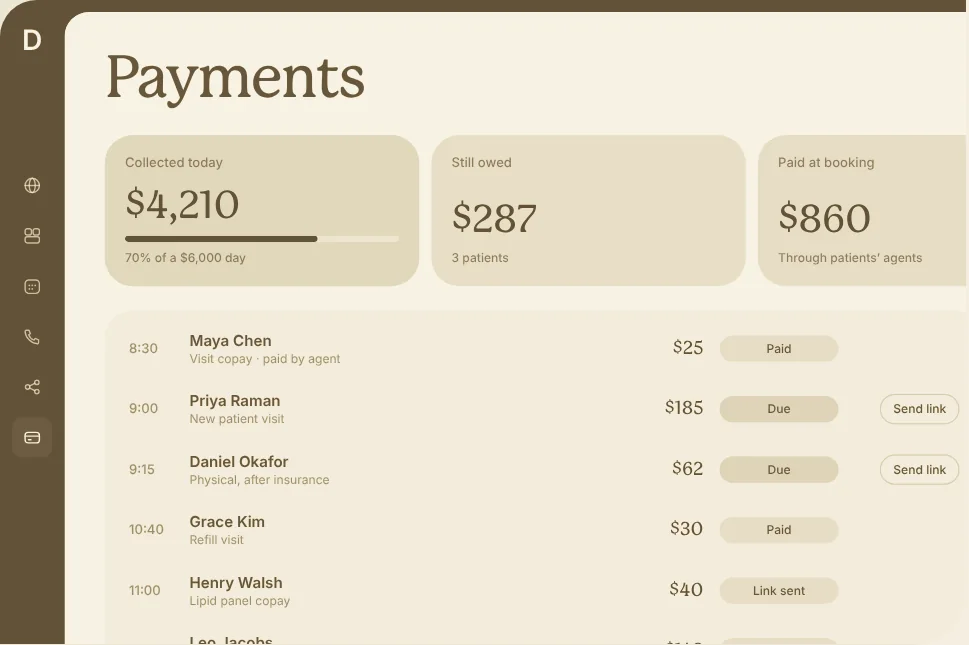
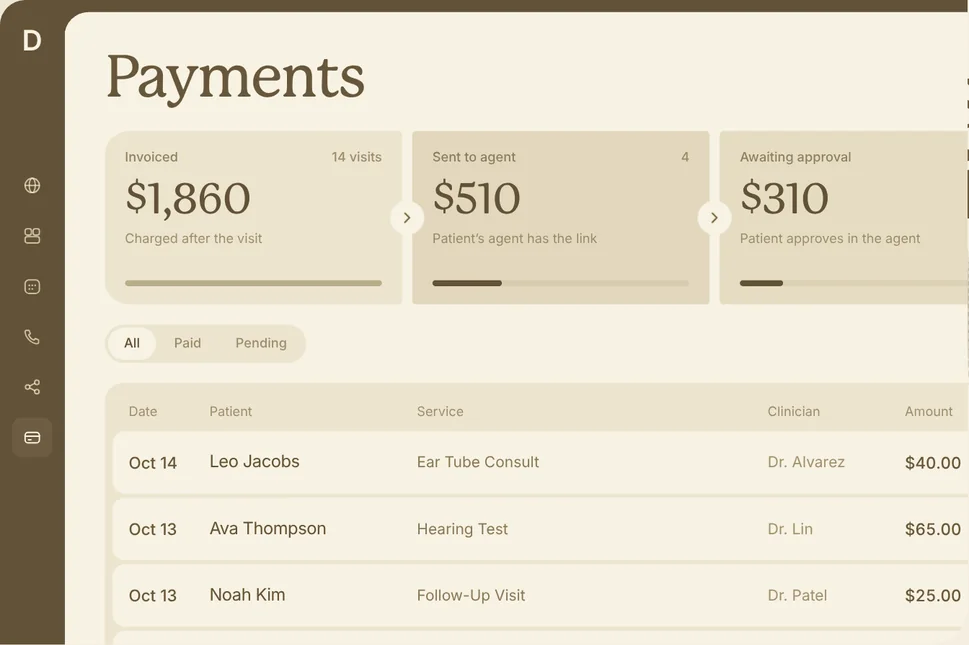
product: Payments tab with a four-stage row over the payments table
Invoiced, sent to agent, awaiting approval and collected as one connected
row, then the payments table with paid-with and status pills; the filter
and clinician selector work. iPhone still re-captured.

Claude-Session: https://claude.ai/code/session_01EmNa9sU45d49GNut3o7Pn7

diff --git a/components/doehealth-product/DoeHealthProductPayments.tsx b/components/doehealth-product/DoeHealthProductPayments.tsx
@@ -1,156 +1,169 @@
 "use client";
 
 /**
- * Payments tab — today's money at a glance: four soft stat cards, the day's payments with one action
- * each, and the week's collections as rounded bars.
+ * Payments tab — a charge's path in one row (invoiced, sent to the patient's agent, awaiting approval, collected),
+ * then every payment in a table with who paid, with what, and where it stands.
  */
-import { type ReactNode, useState } from "react";
+import { useState } from "react";
 
 const DISPLAY = "font-['P22MackinacPro-Medium','P22_Mackinac_Pro',system-ui,sans-serif] font-[500]";
 const SANS = "font-['DM_Sans',system-ui,sans-serif]";
-const EASE = "cubic-bezier(0.32, 0.72, 0, 1)";
 
-type Status = "paid" | "due" | "sent" | "claim" | "denied";
+type PayStatus = "paid" | "sent" | "waiting";
 
-const STATUS: Record<Status, { label: string; tone: string }> = {
-  paid: { label: "Paid", tone: "#E3E9D9" },
-  due: { label: "Due", tone: "#FCCFB8" },
-  sent: { label: "Link sent", tone: "#EEE6D6" },
-  claim: { label: "Claim pending", tone: "#F3E7C9" },
-  denied: { label: "Claim denied", tone: "#F6D2C4" },
+const ROWS: { date: string; name: string; service: string; clinician: string; amount: string; method: string; status: PayStatus }[] = [
+  { date: "Oct 14", name: "Leo Jacobs", service: "Ear Tube Consult", clinician: "Dr. Alvarez", amount: "$40.00", method: "HSA •••• 4417", status: "sent" },
+  { date: "Oct 13", name: "Ava Thompson", service: "Hearing Test", clinician: "Dr. Lin", amount: "$65.00", method: "Visa •••• 2290", status: "paid" },
+  { date: "Oct 13", name: "Noah Kim", service: "Follow-Up Visit", clinician: "Dr. Patel", amount: "$25.00", method: "HSA •••• 0912", status: "paid" },
+  { date: "Oct 12", name: "Grace Patel", service: "Allergy Panel", clinician: "Dr. Alvarez", amount: "$120.00", method: "Amex •••• 3005", status: "paid" },
+  { date: "Oct 12", name: "Henry Walsh", service: "Sinus CT", clinician: "Dr. Lin", amount: "$310.00", method: "—", status: "waiting" },
+  { date: "Oct 11", name: "Maya Chen", service: "Hearing Aid Fitting", clinician: "Dr. Patel", amount: "$85.00", method: "—", status: "sent" },
+  { date: "Oct 11", name: "Daniel Okafor", service: "Ear Cleaning", clinician: "Dr. Alvarez", amount: "$30.00", method: "Visa •••• 7731", status: "paid" },
+  { date: "Oct 10", name: "Priya Raman", service: "Tympanometry", clinician: "Dr. Lin", amount: "$45.00", method: "HSA •••• 5520", status: "paid" },
+  { date: "Oct 10", name: "Tom Halvorsen", service: "Follow-Up Visit", clinician: "Dr. Patel", amount: "$25.00", method: "Visa •••• 1184", status: "paid" },
+];
+
+const PILL: Record<PayStatus, { label: string; background: string; color: string }> = {
+  paid: { label: "Paid by Agent", background: "#D6DEC6", color: "#2F3B2A" },
+  sent: { label: "Sent to Agent", background: "#FCCFB8", color: "#140C04" },
+  waiting: { label: "Awaiting Approval", background: "#28191014", color: "#281910" },
 };
 
-const PAYMENTS: { id: string; who: string; what: string; time: string; amount: number; status: Status; agent?: boolean }[] = [
-  { id: "maya", who: "Maya Chen", what: "Visit copay", time: "8:30", amount: 25, status: "paid", agent: true },
-  { id: "priya", who: "Priya Raman", what: "New patient visit", time: "9:00", amount: 185, status: "due" },
-  { id: "daniel", who: "Daniel Okafor", what: "Physical, after insurance", time: "9:15", amount: 62, status: "due" },
-  { id: "grace", who: "Grace Kim", what: "Refill visit", time: "10:40", amount: 30, status: "paid" },
-  { id: "henry", who: "Henry Walsh", what: "Lipid panel copay", time: "11:00", amount: 40, status: "sent" },
-  { id: "leo", who: "Leo Jacobs", what: "Ear check · Harbor Mutual", time: "11:30", amount: 142, status: "claim" },
-  { id: "hannah", who: "Hannah Lee", what: "Follow-up", time: "1:15", amount: 25, status: "paid" },
-  { id: "marcus", who: "Marcus Webb", what: "A1C panel · Blue Cross", time: "2:00", amount: 96, status: "denied" },
-  { id: "omar", who: "Omar Haddad", what: "Ear check", time: "4:15", amount: 25, status: "paid", agent: true },
-];
+const COLS = { date: 64, name: 190, clinician: 120, amount: 96, method: 170, status: 168 };
 
-const WEEK = [
-  { day: "Mon", value: 4210, today: true },
-  { day: "Tue", value: 0 },
-  { day: "Wed", value: 0 },
-  { day: "Thu", value: 0 },
-  { day: "Fri", value: 0 },
-];
-const LAST_WEEK = [5120, 4380, 6010, 3890, 5460];
-const GOAL = 6000;
+const FILTERS = ["All", "Paid", "Pending"] as const;
+const CLINICIANS = ["All Clinicians", "Dr. Alvarez", "Dr. Lin", "Dr. Patel"];
 
-const money = (n: number) => `$${n.toLocaleString("en-US")}`;
+/** The four stages a charge passes through, left to right. */
+const STAGES = [
+  { id: "invoiced", label: "Invoiced", count: "14 visits", value: "$1,860", note: "Charged after the visit", tone: "#F4EEDF", fill: 1, bar: "#28191055" },
+  { id: "sent", label: "Sent to agent", count: "4", value: "$510", note: "Patient’s agent has the link", tone: "#F8D9C6", fill: 0.27, bar: "#140C04" },
+  { id: "waiting", label: "Awaiting approval", count: "1", value: "$310", note: "Patient approves in the agent", tone: "#ECE6DA", fill: 0.17, bar: "#140C04" },
+] as const;
 
-function Stat({ label, value, note, tone, children }: { label: string; value: string; note: string; tone: string; children?: ReactNode }) {
+function Chevron() {
   return (
-    <div className="flex flex-col justify-between h-[150px] p-[20px] rounded-[28px]" style={{ backgroundColor: tone }}>
-      <span className={`text-[13px] leading-[16px] ${SANS} font-[500] text-walnut opacity-70`}>{label}</span>
-      <span className="flex flex-col gap-[8px]">
-        <span className={`text-[38px] leading-[42px] tracking-[-0.02em] ${DISPLAY} text-ink`}>{value}</span>
-        {children}
-        <span className={`text-[12px] leading-[16px] ${SANS} font-[500] text-walnut opacity-70`}>{note}</span>
-      </span>
-    </div>
+    <span className="absolute z-[2] top-1/2 -right-[22px] -mt-[17px] w-[34px] h-[34px] flex items-center justify-center rounded-[999px] bg-paper" aria-hidden="true">
+      <svg width="18" height="18" viewBox="0 0 24 24" style={{ display: "block" }}>
+        <path d="M9 6l6 6-6 6" fill="none" stroke="#281910" strokeWidth="1.8" strokeLinecap="round" strokeLinejoin="round" />
+      </svg>
+    </span>
   );
 }
 
 export function DoeHealthProductPaymentsPage() {
-  const [statuses, setStatuses] = useState<Record<string, Status>>(() => Object.fromEntries(PAYMENTS.map((p) => [p.id, p.status])));
-  const set = (id: string, status: Status) => setStatuses((prev) => ({ ...prev, [id]: status }));
+  const [filter, setFilter] = useState<(typeof FILTERS)[number]>("All");
+  const [clinician, setClinician] = useState(0);
 
-  const owed = PAYMENTS.filter((p) => statuses[p.id] === "due" || statuses[p.id] === "sent");
-  const dueCount = PAYMENTS.filter((p) => statuses[p.id] === "due").length;
-  const collected = 4210;
-  const max = Math.max(GOAL, ...LAST_WEEK);
+  const rows = ROWS.filter((r) => {
+    if (filter === "Paid" && r.status !== "paid") return false;
+    if (filter === "Pending" && r.status === "paid") return false;
+    return clinician === 0 || r.clinician === CLINICIANS[clinician];
+  });
 
   return (
-    <div className="relative [font-synthesis:none] h-full w-full flex flex-col gap-[24px] pt-[36px] px-[40px] pb-[28px] rounded-[24px] overflow-clip bg-paper antialiased">
-
+    <div className="relative [font-synthesis:none] h-full w-full flex flex-col gap-[20px] pt-[36px] px-[40px] pb-[28px] rounded-[24px] overflow-clip bg-paper antialiased">
       <div className="relative flex items-end justify-between">
         <span className={`text-[58px] leading-[62px] tracking-[-0.03em] ${DISPLAY} text-walnut`}>Payments</span>
+        <span className="flex gap-[10px]">
+          <span className={`flex items-center h-[40px] px-[18px] rounded-[999px] bg-[#28191014] text-[14px] leading-[18px] ${SANS} font-[500] text-walnut`}>Export</span>
+          <span className={`flex items-center h-[40px] px-[18px] rounded-[999px] bg-ink text-[14px] leading-[18px] ${SANS} font-[500] [color:#FFFCF1]`}>New charge</span>
+        </span>
+      </div>
+
+      <div className="relative grid grid-cols-[1fr_1fr_1fr_1.25fr] gap-[10px] h-[172px] shrink-0">
+        {STAGES.map((s, i) => (
+          <div key={s.id} className={`relative flex flex-col p-[18px_20px] ${i === 0 ? "rounded-l-[24px] rounded-r-[4px]" : "rounded-[4px]"}`} style={{ backgroundColor: s.tone }}>
+            <span className={`flex items-center justify-between text-[13px] leading-[16px] ${SANS} font-[500] text-[rgba(40,25,16,0.7)]`}>
+              {s.label}
+              <span className="text-sub">{s.count}</span>
+            </span>
+            <span className={`mt-[14px] text-[42px] leading-[44px] tracking-[-0.03em] ${DISPLAY} text-ink`}>{s.value}</span>
+            <span className={`mt-[6px] text-[13px] leading-[18px] ${SANS} text-sub`}>{s.note}</span>
+            <span className="mt-auto h-[6px] rounded-[99px] bg-[#2819101A] overflow-hidden">
+              <span className="block h-full rounded-[99px]" style={{ width: `${s.fill * 100}%`, backgroundColor: s.bar }} />
+            </span>
+            <Chevron />
+          </div>
+        ))}
+        <div className="relative flex flex-col p-[18px_20px] rounded-l-[4px] rounded-r-[24px] bg-[#D6DEC6]">
+          <span className={`flex items-center justify-between text-[13px] leading-[16px] ${SANS} font-[500] text-[#2F3B2A]`}>
+            Collected
+            <span className="flex items-center h-[24px] px-[10px] rounded-[999px] bg-[#FFFCF1A6] text-[12px]">+18% this week</span>
+          </span>
+          <span className={`mt-[8px] text-[56px] leading-[58px] tracking-[-0.03em] ${DISPLAY} text-ink`}>$1,240</span>
+          <span className={`mt-[8px] flex gap-[14px] text-[12.5px] leading-[16px] ${SANS} text-[#2F3B2A]`}>
+            <span><b className="font-[600]">72%</b> paid by agent</span>
+            <span><b className="font-[600]">18%</b> card on file</span>
+            <span><b className="font-[600]">10%</b> front desk</span>
+          </span>
+          <span className="mt-auto flex gap-[3px] h-[6px] rounded-[99px] overflow-hidden bg-[#FFFCF18C]">
+            <span className="h-full bg-[#2F3B2A]" style={{ width: "72%" }} />
+            <span className="h-full bg-[#6E9A5B]" style={{ width: "18%" }} />
+            <span className="h-full bg-[#9DB387]" style={{ width: "10%" }} />
+          </span>
+        </div>
+      </div>
+
+      <div className="relative flex items-center gap-[10px] h-[38px] shrink-0">
+        <span className="flex p-[3px] gap-[2px] rounded-[999px] bg-[#F4EEDF]">
+          {FILTERS.map((f) => (
+            <button
+              key={f}
+              type="button"
+              onClick={() => setFilter(f)}
+              className={`h-[32px] px-[16px] rounded-[999px] text-[13px] leading-[16px] ${SANS} font-[500] transition-colors duration-150 ${filter === f ? "bg-paper text-ink" : "text-sub hover:text-walnut"}`}
+            >
+              {f}
+            </button>
+          ))}
+        </span>
+        <span className="grow" />
         <button
           type="button"
-          disabled={dueCount === 0}
-          onClick={() => PAYMENTS.forEach((p) => statuses[p.id] === "due" && set(p.id, "sent"))}
-          className={`h-[40px] px-[18px] rounded-[999px] text-[14px] leading-[18px] ${SANS} font-[500] transition-colors duration-150 ${dueCount ? "bg-ink [color:#FFFCF1] hover:bg-[#2B1D12]" : "bg-[#EEEADF] text-sub"}`}
+          onClick={() => setClinician((c) => (c + 1) % CLINICIANS.length)}
+          className={`flex items-center gap-[8px] h-[38px] px-[16px] rounded-[999px] bg-[#28191014] hover:bg-[#2819101F] transition-colors duration-150 text-[14px] leading-[18px] ${SANS} font-[500] text-walnut`}
         >
-          {dueCount ? `Send ${dueCount} payment links` : "All links sent"}
+          {CLINICIANS[clinician]}
+          <svg width="14" height="14" viewBox="0 0 24 24" aria-hidden="true" style={{ display: "block" }}>
+            <path d="M6 9l6 6 6-6" fill="none" stroke="currentColor" strokeWidth="2" strokeLinecap="round" strokeLinejoin="round" />
+          </svg>
         </button>
       </div>
 
-      <div className="relative grid grid-cols-4 gap-[12px]">
-        <Stat label="Collected today" value={money(collected)} note={`${Math.round((collected / GOAL) * 100)}% of a ${money(GOAL)} day`} tone="#E9DCC7">
-          <span className="h-[6px] rounded-[99px] bg-[#FFFCF199] overflow-hidden">
-            <span className="block h-full rounded-[99px] bg-ink" style={{ width: `${(collected / GOAL) * 100}%` }} />
-          </span>
-        </Stat>
-        <Stat label="Still owed" value={money(owed.reduce((s, p) => s + p.amount, 0))} note={`${owed.length} patients`} tone="#FBE4D8" />
-        <Stat label="Paid at booking" value="$860" note="Through patients’ agents" tone="#E3E9D9" />
-        <Stat label="Claims in flight" value="23" note="Waystar offline since 9:12" tone="#F3EEE2" />
-      </div>
-
-      <div className="relative flex grow min-h-[0px] gap-[12px]">
-        <div className="grow min-w-[0px] flex flex-col p-[8px] rounded-[28px] bg-[#FAF6EC] overflow-y-auto overscroll-y-none [scrollbar-width:none] [&::-webkit-scrollbar]:hidden">
-          {PAYMENTS.map((p) => {
-            const status = statuses[p.id]!;
-            const s = STATUS[status];
+      <div className="relative flex flex-col grow min-h-[0px] pt-[8px] px-[8px] rounded-[18px] bg-[#F4EEDF] overflow-y-auto overscroll-y-none [scrollbar-width:none] [&::-webkit-scrollbar]:hidden">
+        <div className={`flex items-center gap-[16px] shrink-0 px-[16px] pt-[12px] pb-[10px] text-[13px] leading-[18px] ${SANS} text-sub`}>
+          <span style={{ width: COLS.date }} className="shrink-0">Date</span>
+          <span style={{ width: COLS.name }} className="shrink-0">Patient</span>
+          <span className="grow min-w-[0px]">Service</span>
+          <span style={{ width: COLS.clinician }} className="shrink-0">Clinician</span>
+          <span style={{ width: COLS.amount }} className="shrink-0">Amount</span>
+          <span style={{ width: COLS.method }} className="shrink-0">Paid With</span>
+          <span style={{ width: COLS.status }} className="shrink-0">Status</span>
+        </div>
+        <div className="flex flex-col gap-[4px] pb-[8px]">
+          {rows.map((r) => {
+            const pill = PILL[r.status];
             return (
-              <div key={p.id} className="flex items-center gap-[16px] h-[60px] shrink-0 px-[16px] rounded-[20px] hover:bg-sand transition-colors duration-150">
-                <span className={`w-[44px] shrink-0 text-[13px] leading-[16px] ${SANS} font-[500] text-sub`}>{p.time}</span>
-                <span className="flex flex-col grow min-w-[0px]">
-                  <span className={`truncate text-[15px] leading-[20px] ${SANS} font-[600] text-walnut`}>{p.who}</span>
-                  <span className={`truncate text-[12px] leading-[16px] ${SANS} text-sub`}>{p.agent ? `${p.what} · paid by agent` : p.what}</span>
-                </span>
-                <span className={`w-[64px] shrink-0 text-right text-[18px] leading-[22px] ${DISPLAY} text-ink`}>{money(p.amount)}</span>
-                <span
-                  className={`w-[118px] shrink-0 flex items-center justify-center h-[26px] rounded-[999px] text-[12px] leading-[16px] ${SANS} font-[500] text-walnut`}
-                  style={{ backgroundColor: s.tone, transition: `background-color 300ms ${EASE}` }}
-                >
-                  {s.label}
-                </span>
-                <span className="w-[104px] shrink-0 flex justify-end">
-                  {(status === "due" || status === "denied") && (
-                    <button
-                      type="button"
-                      onClick={() => set(p.id, status === "due" ? "sent" : "claim")}
-                      className={`doe-menu-in h-[30px] px-[12px] rounded-[999px] border border-solid border-[#28191033] hover:bg-[#F4EEDF] transition-colors duration-150 text-[12px] leading-[16px] ${SANS} font-[500] text-walnut`}
-                    >
-                      {status === "due" ? "Send link" : "Resubmit"}
-                    </button>
-                  )}
+              <div key={r.name} className="flex items-center gap-[16px] h-[62px] shrink-0 px-[16px] rounded-[12px] bg-paper">
+                <span style={{ width: COLS.date }} className={`shrink-0 text-[16px] leading-[20px] ${SANS} font-[500] text-walnut`}>{r.date}</span>
+                <span style={{ width: COLS.name }} className={`shrink-0 truncate text-[17px] leading-[22px] tracking-[-0.02em] ${SANS} text-ink`}>{r.name}</span>
+                <span className={`grow min-w-[0px] truncate text-[15px] leading-[20px] ${SANS} text-[rgba(40,25,16,0.78)]`}>{r.service}</span>
+                <span style={{ width: COLS.clinician }} className={`shrink-0 text-[15px] leading-[20px] ${SANS} text-sub`}>{r.clinician}</span>
+                <span style={{ width: COLS.amount }} className={`shrink-0 text-[16px] leading-[20px] ${SANS} font-[500] text-walnut [font-variant-numeric:tabular-nums]`}>{r.amount}</span>
+                <span style={{ width: COLS.method }} className={`shrink-0 text-[15px] leading-[20px] ${SANS} text-sub`}>{r.method}</span>
+                <span style={{ width: COLS.status }} className="shrink-0 flex">
+                  <span
+                    className={`flex items-center h-[28px] px-[12px] rounded-[999px] text-[13px] leading-[18px] ${SANS} font-[500] whitespace-nowrap`}
+                    style={{ backgroundColor: pill.background, color: pill.color }}
+                  >
+                    {pill.label}
+                  </span>
                 </span>
               </div>
             );
           })}
-        </div>
-
-        <div className="w-[400px] shrink-0 flex flex-col gap-[16px] p-[20px] rounded-[28px] bg-[#FAF6EC]">
-          <span className="flex items-baseline justify-between">
-            <span className={`text-[22px] leading-[26px] tracking-[-0.01em] ${DISPLAY} text-walnut`}>This week</span>
-            <span className={`flex items-center gap-[6px] text-[12px] leading-[16px] ${SANS} font-[500] text-sub`}>
-              <span className="w-[8px] h-[8px] rounded-[99px] bg-[#E6DCC8]" />
-              Last week
-            </span>
-          </span>
-          <div className="relative flex grow min-h-[0px] items-end gap-[14px] mt-[12px]">
-            <span className="absolute left-0 right-0 border-t border-dashed border-[#28191026]" style={{ bottom: `${(GOAL / max) * 100}%` }} />
-            {WEEK.map((d, i) => (
-              <div key={d.day} className="relative flex-1 h-full flex items-end">
-                <span className="absolute bottom-0 w-full rounded-[16px] bg-[#EFE8D9]" style={{ height: `${(LAST_WEEK[i]! / max) * 100}%` }} />
-                {d.value > 0 && <span className="relative w-full rounded-[16px] bg-[#E8A585]" style={{ height: `${(d.value / max) * 100}%` }} />}
-              </div>
-            ))}
-          </div>
-          <div className="flex gap-[14px]">
-            {WEEK.map((d) => (
-              <span key={d.day} className={`flex-1 text-center text-[12px] leading-[16px] ${SANS} font-[500] ${d.today ? "text-walnut" : "text-sub"}`}>
-                {d.day}
-              </span>
-            ))}
-          </div>
+          {rows.length === 0 ? <span className={`px-[16px] py-[24px] text-[14px] ${SANS} text-sub`}>No payments match.</span> : null}
         </div>
       </div>
     </div>
